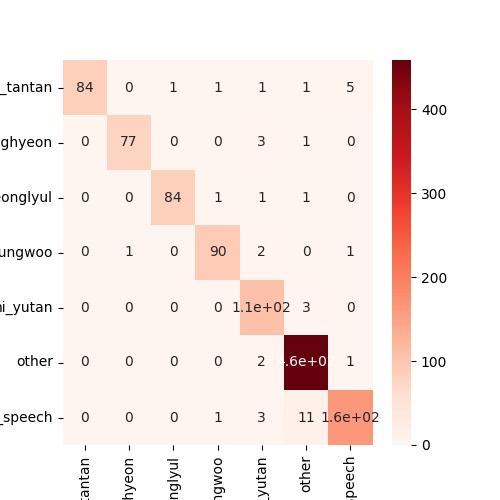
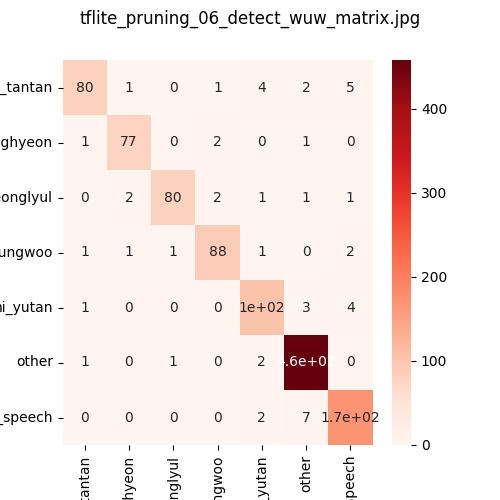
new_train_prun

diff --git a/tflite_converter/tflite_evaluate.py b/tflite_converter/tflite_evaluate.py
@@ -56,6 +56,7 @@ def evaluate_tflite_model(target,t_list ,tflite_file, model_type,  x_test, y_tes
             xticklabels = t_list,
             yticklabels = t_list,
             cmap="Reds")
+  plt.suptitle(model_name)
   plt.savefig(Config.base_path + 'model_evaluate/' + model_name)
   plt.show()
 
@@ -119,32 +120,18 @@ _, detect_keras_file = tempfile.mkstemp('.h5')
 tf.keras.models.save_model(detect_model, detect_keras_file, include_optimizer=False)
 get_gzipped_model_size(detect_keras_file)
 get_gzipped_model_size(Config.tflite_file_path)
-get_gzipped_model_size(Config.prun_02_tflite_file_path)
-get_gzipped_model_size(Config.prun_04_tflite_file_path)
 get_gzipped_model_size(Config.prun_06_tflite_file_path)
 get_gzipped_model_size(Config.prun_08_tflite_file_path)
+get_gzipped_model_size(Config.prun_09_tflite_file_path)
+get_gzipped_model_size(Config.prun_95_tflite_file_path)
+get_gzipped_model_size(Config.prun_98_tflite_file_path)
+get_gzipped_model_size(Config.prun_99_tflite_file_path)
 
 
 model_name_detect = "tflite_orig_detect_wuw_matrix.jpg"
 model_type = "Float"
 evaluate_tflite_model(Config.target_wake_word, Config.target_list,
                       Config.tflite_file_path, model_type,x_test_detect,
-                      y_test_detect, model_name_detect,
-                      x_train_detect, y_train_detect, x_val_detect, y_val_detect
-                      )
-
-model_name_detect = "tflite_pruning_02_detect_wuw_matrix.jpg"
-model_type = "Float"
-evaluate_tflite_model(Config.target_wake_word, Config.target_list,
-                      Config.prun_02_tflite_file_path, model_type,x_test_detect,
-                      y_test_detect, model_name_detect,
-                      x_train_detect, y_train_detect, x_val_detect, y_val_detect
-                      )
-
-model_name_detect = "tflite_pruning_04_detect_wuw_matrix.jpg"
-model_type = "Float"
-evaluate_tflite_model(Config.target_wake_word, Config.target_list,
-                      Config.prun_04_tflite_file_path, model_type,x_test_detect,
                       y_test_detect, model_name_detect,
                       x_train_detect, y_train_detect, x_val_detect, y_val_detect
                       )
@@ -165,6 +152,37 @@ evaluate_tflite_model(Config.target_wake_word, Config.target_list,
                       x_train_detect, y_train_detect, x_val_detect, y_val_detect
                       )
 
+model_name_detect = "tflite_pruning_09_detect_wuw_matrix.jpg"
+model_type = "Float"
+evaluate_tflite_model(Config.target_wake_word, Config.target_list,
+                      Config.prun_09_tflite_file_path, model_type,x_test_detect,
+                      y_test_detect, model_name_detect,
+                      x_train_detect, y_train_detect, x_val_detect, y_val_detect
+                      )
+
+model_name_detect = "tflite_pruning_96_detect_wuw_matrix.jpg"
+model_type = "Float"
+evaluate_tflite_model(Config.target_wake_word, Config.target_list,
+                      Config.prun_95_tflite_file_path, model_type,x_test_detect,
+                      y_test_detect, model_name_detect,
+                      x_train_detect, y_train_detect, x_val_detect, y_val_detect
+                      )
+
+model_name_detect = "tflite_pruning_98_detect_wuw_matrix.jpg"
+model_type = "Float"
+evaluate_tflite_model(Config.target_wake_word, Config.target_list,
+                      Config.prun_98_tflite_file_path, model_type,x_test_detect,
+                      y_test_detect, model_name_detect,
+                      x_train_detect, y_train_detect, x_val_detect, y_val_detect
+                      )
+
+model_name_detect = "tflite_pruning_99_detect_wuw_matrix.jpg"
+model_type = "Float"
+evaluate_tflite_model(Config.target_wake_word, Config.target_list,
+                      Config.prun_99_tflite_file_path, model_type,x_test_detect,
+                      y_test_detect, model_name_detect,
+                      x_train_detect, y_train_detect, x_val_detect, y_val_detect
+                      )
 
 print()
 print("-"*100)
@@ -178,10 +196,12 @@ tf.keras.models.save_model(recog_model, recog_keras_file, include_optimizer=Fals
 get_gzipped_model_size(recog_keras_file)
 get_gzipped_model_size(Config.tflite_file_path_recog_02)
 
-get_gzipped_model_size(Config.prun_02_tflite_file_path_recog)
-get_gzipped_model_size(Config.prun_04_tflite_file_path_recog)
 get_gzipped_model_size(Config.prun_06_tflite_file_path_recog)
 get_gzipped_model_size(Config.prun_08_tflite_file_path_recog)
+get_gzipped_model_size(Config.prun_09_tflite_file_path_recog)
+get_gzipped_model_size(Config.prun_95_tflite_file_path_recog)
+get_gzipped_model_size(Config.prun_98_tflite_file_path_recog)
+get_gzipped_model_size(Config.prun_99_tflite_file_path_recog)
 
 
 model_name_recog = "tflite_orig_recog_user_matrix_02.jpg"
@@ -192,22 +212,6 @@ evaluate_tflite_model(Config.target_user, Config.user_list,
                       x_train_recog, y_train_recog, x_val_recog, y_val_recog
                       )
 
-
-model_name_recog = "tflite_pruning_02_recog_user_matrix.jpg"
-model_type = "Float"
-evaluate_tflite_model(Config.target_user, Config.user_list,
-                      Config.prun_02_tflite_file_path_recog, model_type, x_test_recog,
-                      y_test_recog, model_name_recog,
-                      x_train_recog, y_train_recog, x_val_recog, y_val_recog
-                      )
-
-model_name_recog = "tflite_pruning_04_recog_user_matrix.jpg"
-model_type = "Float"
-evaluate_tflite_model(Config.target_user, Config.user_list,
-                      Config.prun_04_tflite_file_path_recog, model_type, x_test_recog,
-                      y_test_recog, model_name_recog,
-                      x_train_recog, y_train_recog, x_val_recog, y_val_recog
-                      )
 
 model_name_recog = "tflite_pruning_06_recog_user_matrix.jpg"
 model_type = "Float"
@@ -225,7 +229,37 @@ evaluate_tflite_model(Config.target_user, Config.user_list,
                       x_train_recog, y_train_recog, x_val_recog, y_val_recog
                       )
 
+model_name_recog = "tflite_pruning_09_recog_user_matrix.jpg"
+model_type = "Float"
+evaluate_tflite_model(Config.target_user, Config.user_list,
+                      Config.prun_09_tflite_file_path_recog, model_type, x_test_recog,
+                      y_test_recog, model_name_recog,
+                      x_train_recog, y_train_recog, x_val_recog, y_val_recog
+                      )
 
+model_name_recog = "tflite_pruning_95_recog_user_matrix.jpg"
+model_type = "Float"
+evaluate_tflite_model(Config.target_user, Config.user_list,
+                      Config.prun_95_tflite_file_path_recog, model_type, x_test_recog,
+                      y_test_recog, model_name_recog,
+                      x_train_recog, y_train_recog, x_val_recog, y_val_recog
+                      )
+
+model_name_recog = "tflite_pruning_98_recog_user_matrix.jpg"
+model_type = "Float"
+evaluate_tflite_model(Config.target_user, Config.user_list,
+                      Config.prun_98_tflite_file_path_recog, model_type, x_test_recog,
+                      y_test_recog, model_name_recog,
+                      x_train_recog, y_train_recog, x_val_recog, y_val_recog
+                      )
+
+model_name_recog = "tflite_pruning_99_recog_user_matrix.jpg"
+model_type = "Float"
+evaluate_tflite_model(Config.target_user, Config.user_list,
+                      Config.prun_99_tflite_file_path_recog, model_type, x_test_recog,
+                      y_test_recog, model_name_recog,
+                      x_train_recog, y_train_recog, x_val_recog, y_val_recog
+                      )
 
 
 

diff --git a/configuration.py b/configuration.py
@@ -36,10 +36,10 @@ class Config:
 
     # 기동어 정답 나누는 기준
     thres_hold_detect = 0.98
-    thres_hold_recog = 0.90
+    thres_hold_recog = 0.80
 
     # thres_hold_low_power = 0.002
-    thres_hold_low_power = 0.03
+    thres_hold_low_power = 0.001
 
 
     # 음향 파일 불러올떄 1초당 sample 개수
@@ -79,19 +79,21 @@ class Config:
     best_model_path_recog = base_path+ "best_model/speaker_recognition_model"
     best_model_path_recog_02 = base_path + "best_model/speaker_recognition_model_02"
 
-    best_model_path_detect_pruning_02 = base_path+ "best_model/detection_pruning_02_model"
-    best_model_path_detect_pruning_04 = base_path+ "best_model/detection_pruning_04_model"
+
     best_model_path_detect_pruning_06 = base_path+ "best_model/detection_pruning_06_model"
     best_model_path_detect_pruning_08 = base_path+ "best_model/detection_pruning_08_model"
     best_model_path_detect_pruning_09 = base_path+ "best_model/detection_pruning_09_model"
     best_model_path_detect_pruning_95 = base_path+ "best_model/detection_pruning_95_model"
+    best_model_path_detect_pruning_98 = base_path+ "best_model/detection_pruning_98_model"
+    best_model_path_detect_pruning_99 = base_path+ "best_model/detection_pruning_99_model"
 
-    best_model_path_recog_pruning_02_02 = base_path + "best_model/recognition_pruning_model_02_02"
-    best_model_path_recog_pruning_04_02 = base_path + "best_model/recognition_pruning_model_04_02"
+
     best_model_path_recog_pruning_06_02 = base_path + "best_model/recognition_pruning_model_06_02"
     best_model_path_recog_pruning_08_02 = base_path + "best_model/recognition_pruning_model_08_02"
     best_model_path_recog_pruning_09_02 = base_path + "best_model/recognition_pruning_model_09_02"
     best_model_path_recog_pruning_95_02 = base_path + "best_model/recognition_pruning_model_95_02"
+    best_model_path_recog_pruning_98_02 = base_path + "best_model/recognition_pruning_model_98_02"
+    best_model_path_recog_pruning_99_02 = base_path + "best_model/recognition_pruning_model_99_02"
 
 
 
@@ -102,12 +104,13 @@ class Config:
     tflite_file_path = base_path + tflite_model_path + 'ori_detection.tflite'
     quant_tflite_file_path = base_path + tflite_model_path+ 'quant_detection.tflite'
 
-    prun_02_tflite_file_path = base_path + tflite_model_path+ 'prun_02_detection.tflite'
-    prun_04_tflite_file_path = base_path + tflite_model_path + 'prun_04_detection.tflite'
+
     prun_06_tflite_file_path = base_path + tflite_model_path + 'prun_06_detection.tflite'
     prun_08_tflite_file_path = base_path + tflite_model_path + 'prun_08_detection.tflite'
     prun_09_tflite_file_path = base_path + tflite_model_path + 'prun_09_detection.tflite'
     prun_95_tflite_file_path = base_path + tflite_model_path + 'prun_95_detection.tflite'
+    prun_98_tflite_file_path = base_path + tflite_model_path + 'prun_98_detection.tflite'
+    prun_99_tflite_file_path = base_path + tflite_model_path + 'prun_99_detection.tflite'
 
 
     # Recog
@@ -115,12 +118,13 @@ class Config:
     tflite_file_path_recog_02 = base_path + tflite_model_path + 'ori_recognition_02.tflite'
     quant_tflite_file_path_recog = base_path + tflite_model_path+ 'quant_recognition.tflite'
 
-    prun_02_tflite_file_path_recog = base_path + tflite_model_path+ 'prun_02_recognition.tflite'
-    prun_04_tflite_file_path_recog = base_path + tflite_model_path + 'prun_04_recognition.tflite'
+
     prun_06_tflite_file_path_recog = base_path + tflite_model_path + 'prun_06_recognition.tflite'
     prun_08_tflite_file_path_recog = base_path + tflite_model_path + 'prun_08_recognition.tflite'
     prun_09_tflite_file_path_recog = base_path + tflite_model_path + 'prun_09_recognition.tflite'
     prun_95_tflite_file_path_recog = base_path + tflite_model_path + 'prun_95_recognition.tflite'
+    prun_98_tflite_file_path_recog = base_path + tflite_model_path + 'prun_98_recognition.tflite'
+    prun_99_tflite_file_path_recog = base_path + tflite_model_path + 'prun_99_recognition.tflite'
 
 
 

diff --git a/tflite_converter/detect_pruning_tflite.py b/tflite_converter/detect_pruning_tflite.py
@@ -28,28 +28,30 @@ y_train_one_hot = tf.one_hot(y_train, len(Config.target_list))
 y_val_one_hot = tf.one_hot(y_val, len(Config.target_list))
 y_test_one_hot = tf.one_hot(y_test, len(Config.target_list))
 
-model = tf.keras.models.load_model(Config.best_model_path)
 
-best_model_path_list = [Config.best_model_path_detect_pruning_02, Config.best_model_path_detect_pruning_04,
-                        Config.best_model_path_detect_pruning_06, Config.best_model_path_detect_pruning_08,
-                        Config.best_model_path_detect_pruning_09, Config.best_model_path_detect_pruning_95]
 
-tflite_path_list = [Config.prun_02_tflite_file_path, Config.prun_04_tflite_file_path,
-                    Config.prun_06_tflite_file_path, Config.prun_08_tflite_file_path,
-                    Config.prun_09_tflite_file_path, Config.prun_95_tflite_file_path]
+best_model_path_list = [Config.best_model_path_detect_pruning_06, Config.best_model_path_detect_pruning_08,
+                        Config.best_model_path_detect_pruning_09, Config.best_model_path_detect_pruning_95,
+                        Config.best_model_path_detect_pruning_98, Config.best_model_path_detect_pruning_99  ]
 
-image_name = ['detect_wuw_prun_02_acc_loss', 'detect_wuw_prun_04_acc_loss',
-              'detect_wuw_prun_06_acc_loss','detect_wuw_prun_08_acc_loss',
-              'detect_wuw_prun_09_acc_loss','detect_wuw_prun_95_acc_loss']
-initial_list =  [ 0.00, 0.20, 0.40, 0.60, 0.70, 0.75 ]
-final_list = [ 0.20, 0.40, 0.60, 0.80, 0.90, 0.95 ]
+tflite_path_list = [Config.prun_06_tflite_file_path, Config.prun_08_tflite_file_path,
+                    Config.prun_09_tflite_file_path, Config.prun_95_tflite_file_path,
+                    Config.prun_98_tflite_file_path, Config.prun_99_tflite_file_path ]
 
-for i in range( 4, len(best_model_path_list)):
+image_name = ['detect_wuw_prun_06_acc_loss','detect_wuw_prun_08_acc_loss',
+              'detect_wuw_prun_09_acc_loss','detect_wuw_prun_95_acc_loss',
+              'detect_wuw_prun_98_acc_loss', 'detect_wuw_prun_99_acc_loss']
+initial_list =  [ 0.40, 0.60, 0.70, 0.75 , 0.78, 0.79 ]
+final_list = [ 0.60, 0.80, 0.9, 0.95 , 0.98, 0.99]
+
+for i in range( len(best_model_path_list)):
     best_model_path = best_model_path_list[i]
     tflite_path = tflite_path_list[i]
     initial = initial_list[i]
     final = final_list[i]
 
+
+    model = tf.keras.models.load_model(Config.best_model_path)
     prune_low_magnitude = tfmot.sparsity.keras.prune_low_magnitude
     end_step = np.ceil(x_train.shape[0]  / Config.batch_size_prun).astype(np.int32) * Config.epoch_prun
 
@@ -119,6 +121,7 @@ for i in range( 4, len(best_model_path_list)):
                       callbacks=callbacks)
 
     fig, ax = plt.subplots(2, 1)
+
     ax[0].plot(history.history['loss'], color='b', label="Training loss")
     ax[0].plot(history.history['val_loss'], color='r', label="validation loss", axes=ax[0])
     legend = ax[0].legend(loc='best', shadow=True)
@@ -126,6 +129,7 @@ for i in range( 4, len(best_model_path_list)):
     ax[1].plot(history.history['accuracy'], color='b', label="Training accuracy")
     ax[1].plot(history.history['val_accuracy'], color='r', label="Validation accuracy")
     legend = ax[1].legend(loc='best', shadow=True)
+    plt.suptitle(image_name[i])
     plt.savefig(Config.base_path + 'model_evaluate/'+ image_name[i]+'.jpg')
     plt.show()
 

diff --git a/tflite_converter/recog_pruning_tflite.py b/tflite_converter/recog_pruning_tflite.py
@@ -28,29 +28,30 @@ y_train_one_hot = tf.one_hot(y_train, len(Config.user_list))
 y_val_one_hot = tf.one_hot(y_val, len(Config.user_list))
 y_test_one_hot = tf.one_hot(y_test, len(Config.user_list))
 
-model = tf.keras.models.load_model(Config.best_model_path_recog_02)
+best_model_path_list = [Config.best_model_path_recog_pruning_06_02, Config.best_model_path_recog_pruning_08_02,
+                        Config.best_model_path_recog_pruning_09_02, Config.best_model_path_recog_pruning_95_02,
+                        Config.best_model_path_recog_pruning_98_02, Config.best_model_path_recog_pruning_99_02]
 
-best_model_path_list = [Config.best_model_path_recog_pruning_02_02, Config.best_model_path_recog_pruning_04_02,
-                        Config.best_model_path_recog_pruning_06_02, Config.best_model_path_recog_pruning_08_02,
-                        Config.best_model_path_recog_pruning_09_02, Config.best_model_path_recog_pruning_95_02]
-
-tflite_path_list = [Config.prun_02_tflite_file_path_recog, Config.prun_04_tflite_file_path_recog,
-                    Config.prun_06_tflite_file_path_recog, Config.prun_08_tflite_file_path_recog,
-                    Config.prun_09_tflite_file_path_recog, Config.prun_95_tflite_file_path_recog]
+tflite_path_list = [Config.prun_06_tflite_file_path_recog, Config.prun_08_tflite_file_path_recog,
+                    Config.prun_09_tflite_file_path_recog, Config.prun_95_tflite_file_path_recog,
+                    Config.prun_98_tflite_file_path_recog, Config.prun_99_tflite_file_path_recog]
 
 
-image_name = ['recog_user_prun_02_acc_loss', 'recog_user_prun_04_acc_loss',
-              'recog_user_prun_06_acc_loss','recog_user_prun_08_acc_loss',
-              'recog_user_prun_09_acc_loss','recog_user_prun_95_acc_loss']
+image_name = ['recog_user_prun_06_acc_loss','recog_user_prun_08_acc_loss',
+              'recog_user_prun_09_acc_loss','recog_user_prun_95_acc_loss',
+              'recog_user_prun_98_acc_loss', 'recog_user_prun_99_acc_loss',
+              ]
 
-initial_list =  [ 0.00, 0.20, 0.40, 0.60, 0.70, 0.75 ]
-final_list = [ 0.20, 0.40, 0.60, 0.80, 0.90, 0.95 ]
+initial_list =  [ 0.40, 0.60, 0.70, 0.75 , 0.78, 0.79 ]
+final_list = [ 0.60, 0.80, 0.9, 0.95 , 0.98, 0.99]
 
-for i in range( 4, len(best_model_path_list)):
+for i in range( len(best_model_path_list)):
     best_model_path = best_model_path_list[i]
     tflite_path = tflite_path_list[i]
     initial = initial_list[i]
     final = final_list[i]
+
+    model = tf.keras.models.load_model(Config.best_model_path_recog_02)
 
     prune_low_magnitude = tfmot.sparsity.keras.prune_low_magnitude
     end_step = np.ceil(x_train.shape[0]  / Config.batch_size_prun).astype(np.int32) * Config.epoch_prun
@@ -132,6 +133,7 @@ for i in range( 4, len(best_model_path_list)):
     ax[1].plot(history.history['accuracy'], color='b', label="Training accuracy")
     ax[1].plot(history.history['val_accuracy'], color='r', label="Validation accuracy")
     legend = ax[1].legend(loc='best', shadow=True)
+    plt.suptitle(image_name[i])
     plt.savefig(Config.base_path + 'model_evaluate/'+ image_name[i]+'.jpg')
     plt.show()
 

diff --git a/realtime_wuw.py b/realtime_wuw.py
@@ -28,7 +28,8 @@ interpreter_detect.allocate_tensors()
 input_details_detect = interpreter_detect.get_input_details()
 output_details_detect = interpreter_detect.get_output_details()
 
-tflite_model_path_recog = Config.prun_08_tflite_file_path_recog ###
+# tflite_model_path_recog = Config.prun_09_tflite_file_path_recog ###
+tflite_model_path_recog = Config.tflite_file_path_recog_02 ###
 interpreter_recog = tflite.Interpreter(tflite_model_path_recog)
 interpreter_recog.allocate_tensors()
 input_details_recog = interpreter_recog.get_input_details()
@@ -133,7 +134,13 @@ while (True):
 
                 show_result_image(detection_image)
                 val_recog = make_ouput(input_tensor, interpreter_recog, input_details_recog, output_details_recog)
-                print("User_01 : {:.02f}  User_02 : {:.02f}  User_03 : {:.02f}  User_04 : {:.02f}  User_05 : {:.02f}".format(val_recog[0], val_recog[1], val_recog[2], val_recog[3], val_recog[4]) )
+                print("User_01 : {:.02f}  User_02 : {:.02f}  User_03 : {:.02f}  "
+                      "User_04 : {:.02f}  User_05 : {:.02f}"
+                      .format(val_recog[0], val_recog[1], val_recog[2], val_recog[3], val_recog[4]) )
+
+                # print("User_01 : {:.02f}  User_02 : {:.02f}  User_03 : {:.02f} "
+                #       .format(val_recog[0], val_recog[1], val_recog[2]))
+
                 flag= True
                 for index_recog in Config.target_user_index:
                     if val_recog[index_recog] > Config.thres_hold_recog:

diff --git a/data_preprocess/recognize_data_preprocess.py b/data_preprocess/recognize_data_preprocess.py
@@ -62,6 +62,9 @@ def extract_features(in_files, in_y):
 
             if (target_word not in filename) or (Config.user_list[int(in_y[index])] not in filename):
                 continue
+            if "stretch" in filename:
+                print("스트레치 패스")
+                continue
 
             path = "/".join([Config.dataset_path, Config.user_list[int(in_y[index])],target_word,
                              filename])
